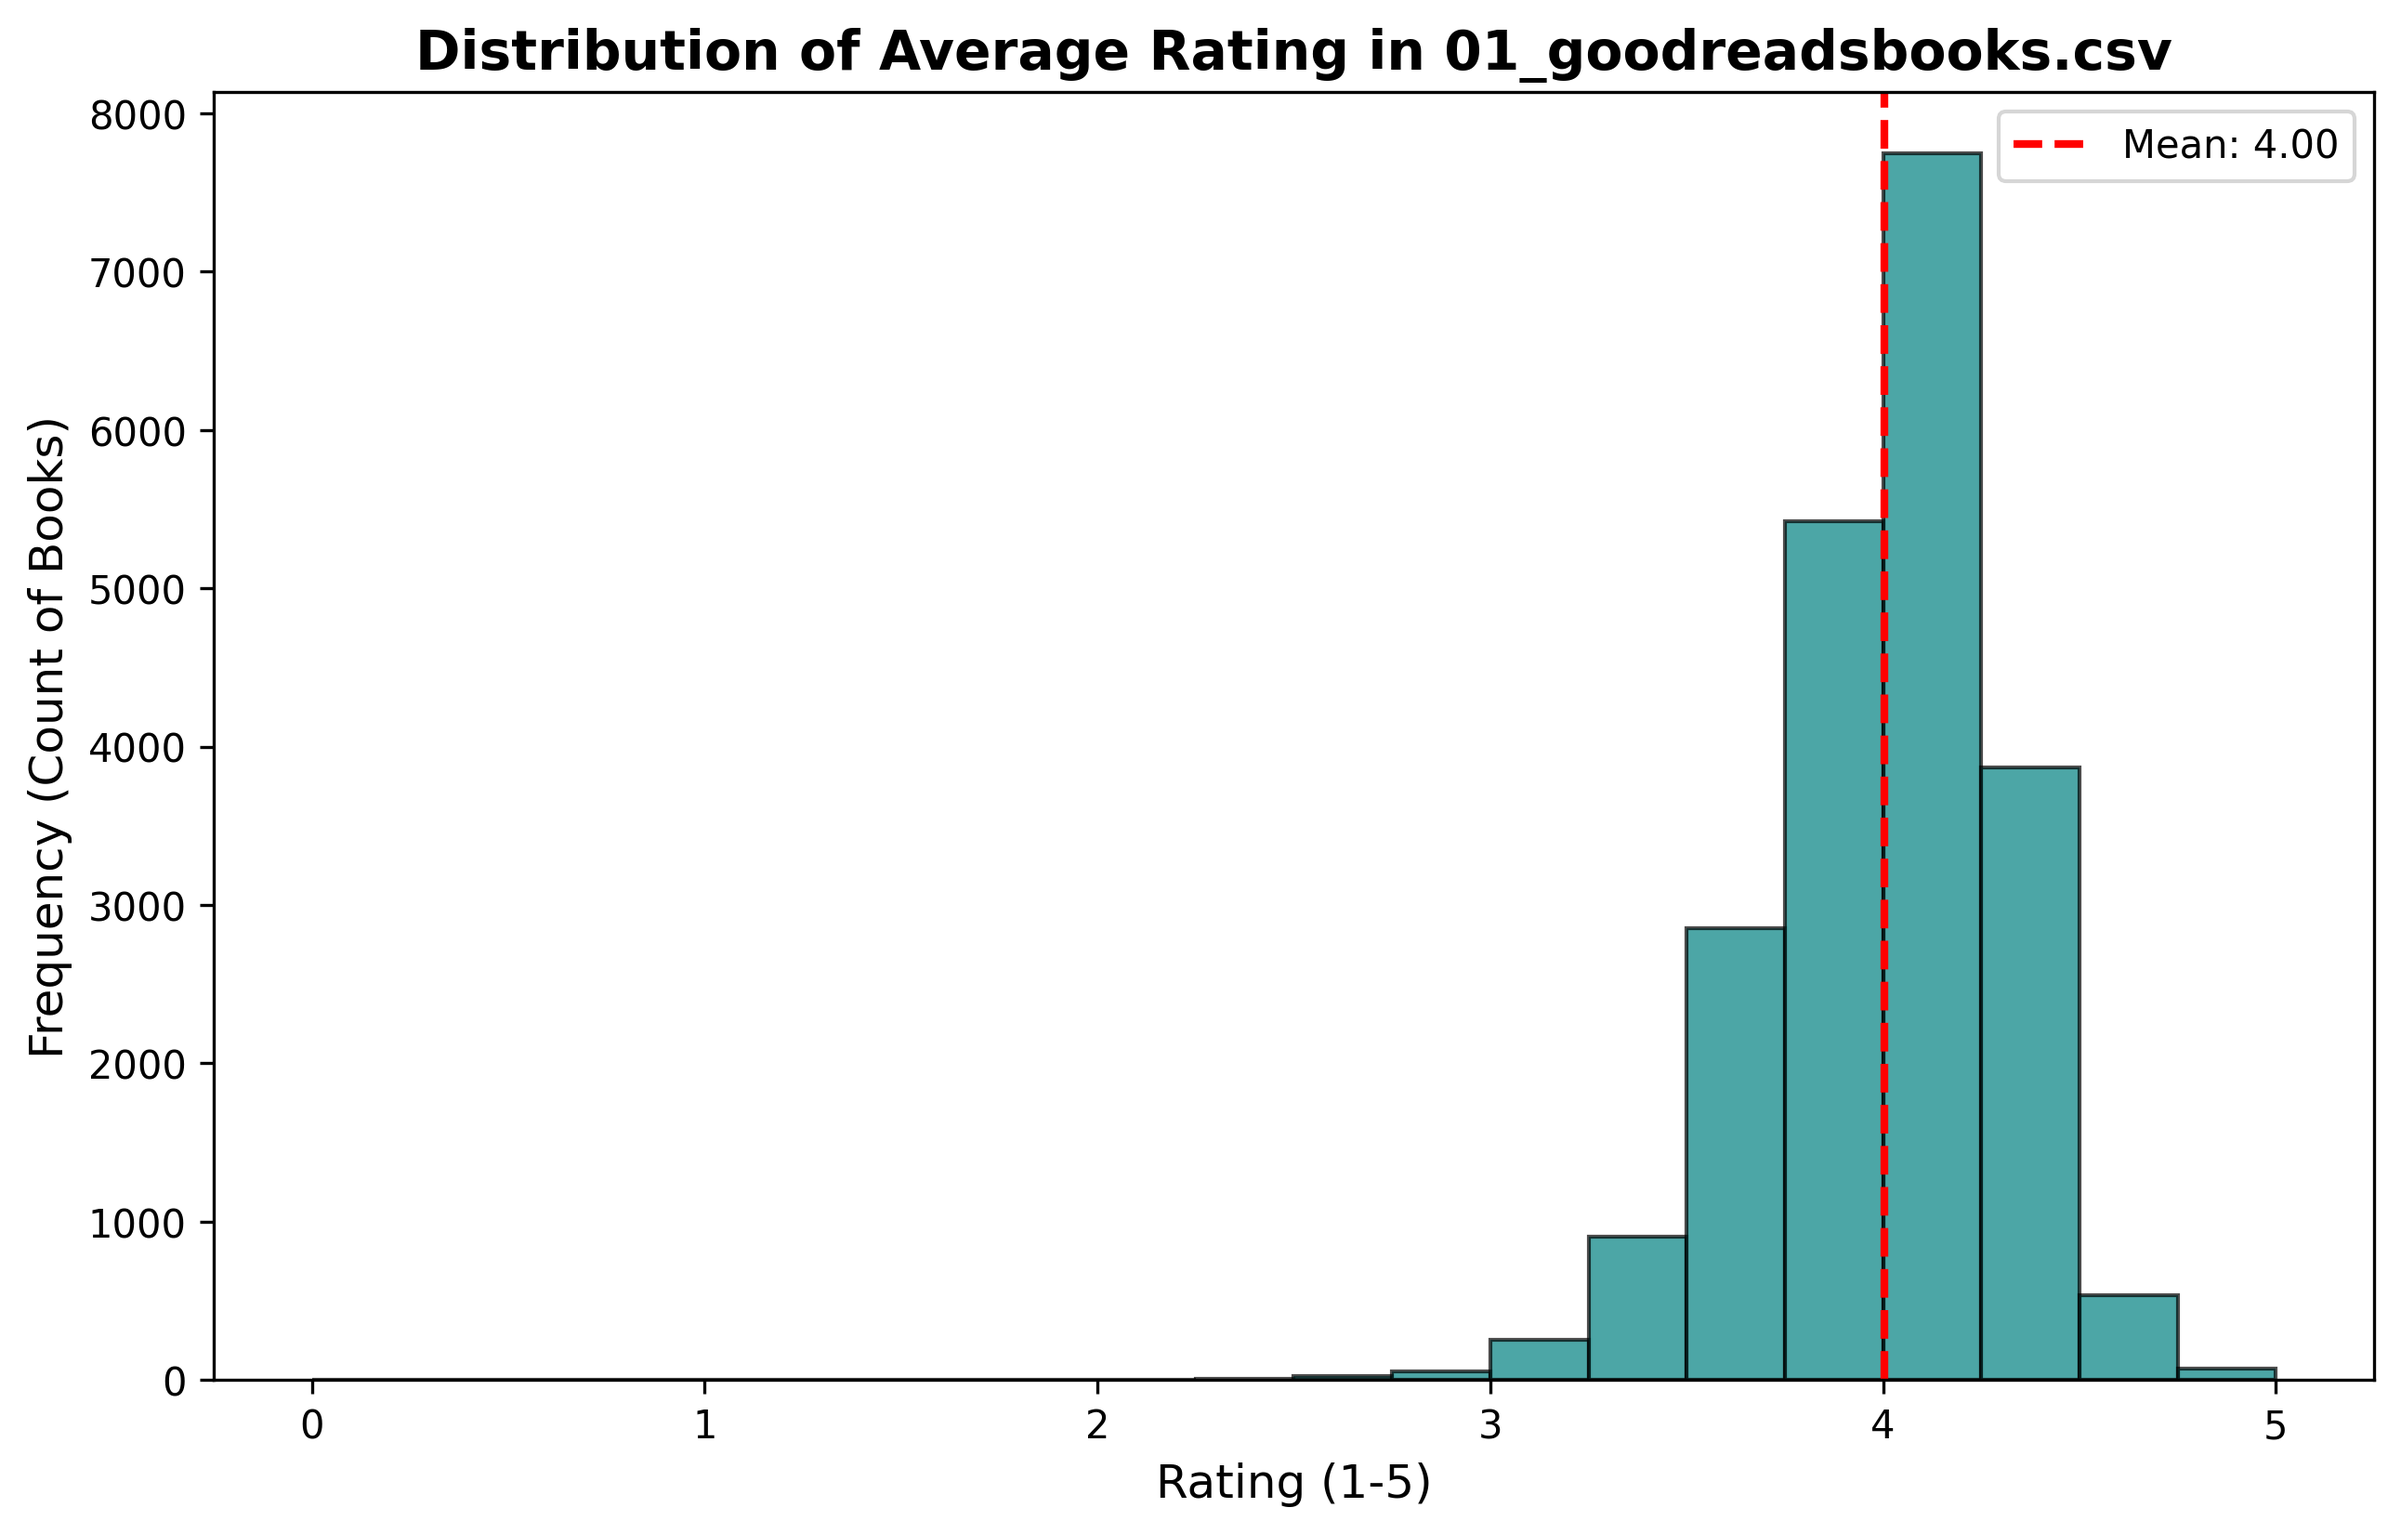
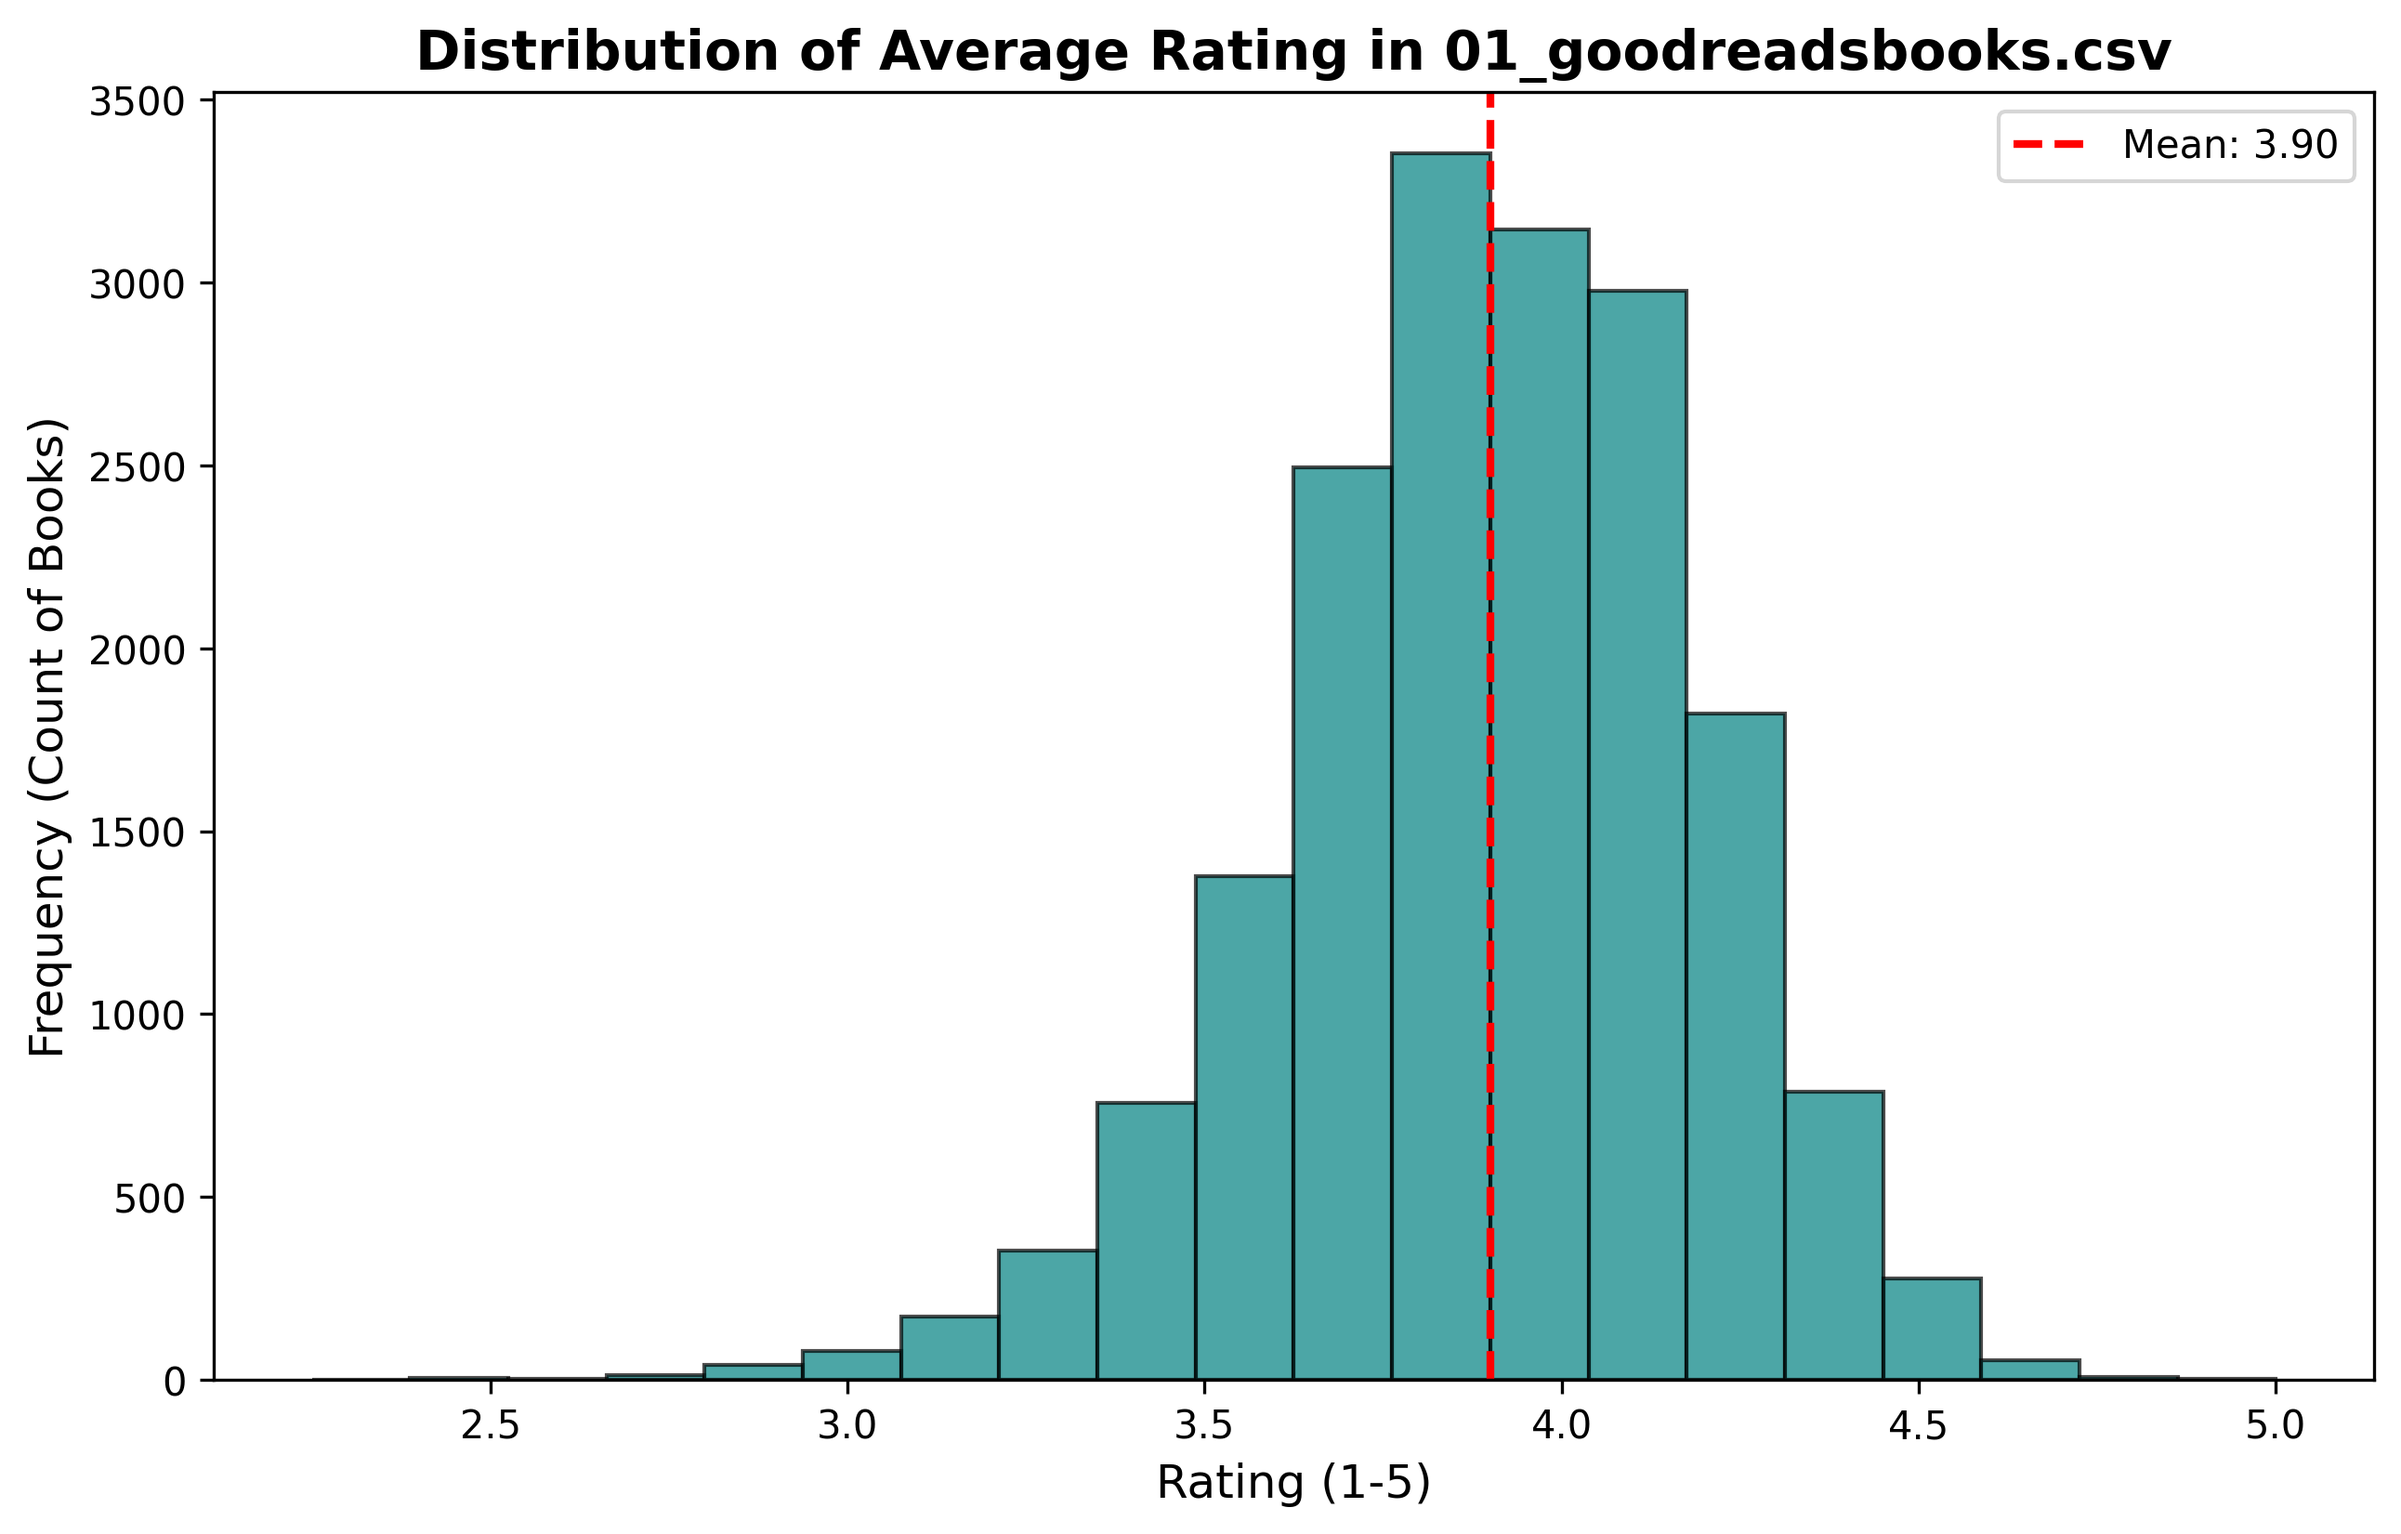
Updated documents folder and report

diff --git a/docs/workingdoc.tex b/docs/workingdoc.tex
@@ -118,34 +118,56 @@ M4 & Weeks 14 & Text Mining (LDA), Final Report \\ \bottomrule
 
 This section details the work done for Milestone 2 of this data mining project.
 
+\subsection{Preprocessing and Data Transformation}
+
+In order to transition from the introductory and theorteical discovery questions from the previous sections our team implemented multiple scripts to select and gather the raw data from the dataset.
+ To address the first discovery question regarding the hidden associations we wrote some python scripts to filter the massive dataset. These scripts took a while to run our computer. First we performed a keyword search across the "popular\_shelves" attirbute of the \texttt{goodreads\_books.json.gz} file. We spefically search for genres: 'romantasy', 'romantic-fantasy', 'fantasy-romance', 'romance', 'fantasy', and 'romantic'. The filtered results are stored in \texttt{01\_filteredbooks.json}. The resulting json consists of records: book\_id, title, average\_rating, shelves\_list.
+
+
+To answer discovery question 2, we need to examine the different user interactions, so we implemented a second filtering script utilizing the book\_id from our previous script to extract reviews from the \texttt{goodreads\_reviews\_dedup.json.gz} dataset, storing the output in \texttt{03\_extractedreviews.csv}.
+
+The datasets required significant cleaning before our team could conduct meaningful mining. First, we removed generic administrative tags like `to-read' and `ebooks' from the books dataset to reduce noise. Second, to focus our analysis and ensure data comprehension, we removed any non-English records from the reviews dataset using the Python package \texttt{langid}.
 \subsection{Exploratory Data Analysis}
+Before applying our mining algorithms, our team examined the distributions of ratings, community-defined tags (for example users can create virtual bookshelves and give them a name), and review engagement to establish a baseline understanding of the ``Romantasy'' and other romance genres subset.
 
-In order to transition from the introductionary and theorteical discovery questions from the previous sections our team implemented multiple pipelines to select and transmit the raw data from the dataset.
- To address the first discovery question regarding the hidden assoications we wrote some python scripts. This script performs a keyword search across the "popular\_shelves" attirbute of the \texttt{goodreads\_books.json.gz} file. We spefically search for genres: 'romantasy', 'romantic-fantasy', 'fantasy-romance', 'romance', 'fantasy', and 'romantic'. The filtered results are stored in \texttt{01\_filteredbooks.json}. The resulting json consists of records: book\_id, title, average\_rating, shelves\_list.
-
-In order to answer discovery question 2 we need to example the different interactions users make so we exmaine interactions on books across the site along with the types of reviews. We implemented a second filtering script that utilizes the book\_id from our previous script to perform an extraction from the \texttt{goodreads\_reviews\_dedup.json.gz} dataset. The extracted data is stored in \texttt{03\_extractedreviews.csv}.
-
-\begin{figure}[htbp]
+ \begin{figure}[htbp]
     \centering
     \includegraphics[width=0.8\linewidth]{rating_histogram.png}
     \caption{Distribution of boos rating in 01\_goodreadsbooks.csv}
     \label{fig:placeholder}
 \end{figure}
 
-    Examining the histogram of the average ratings of romance books in the 01_goodreadsbooks.csv we find that most readers rated the books around 4. This suggests that romance readers find books great reads. They often are not critical of books.
+Examining the histogram of the average ratings of romance books in the 01\_goodreadsbooks.csv we find that most readers rated the books around 4. This suggests that romance readers find books great reads. They often are not critical of books.
+
+\subsubsection{Shelf Tag Distribution}
+
+Analysis of the shelves\_list indicates that the tag `to-read' is the most frequent attribute. During the preprocessing phase, we implemented a filter to only show tags that correspond to actually refer to book descriptions and not generic tags such as ``to-read''. However after during the postprocessing phase the most prevalent tags included fiction, romance, and fantasy. This aligns with the ``Romatansy'' genre which confirms Romantasy is the most pollinated genre.
+\begin{figure}[hbtp]
+    \centering
+    \includegraphics[width=\linewidth]{10commonbargraph.png}
+    \caption{Distribution of the top 10 most frequent shelf tags post-cleaning}
+    \label{fig:tag_frequencies}
+\end{figure}
+
+In order to answer discovery question 1 we need to example the different interactions users make so we examine interactions on books across the site along with the types of reviews. We implemented a second filtering script that utilizes the book\_id from our previous script to perform an extraction from the \texttt{goodreads\_reviews\_dedup.json.gz} dataset. The extracted data is stored in \texttt{03\_extractedreviews.csv}.
+
+\subsection{Answering Discovery Question 1: Genre Associations}
+
+Our team originally asked if readers of ``Romantasy'' (Romance Fantasy) also showed high interest in other specific romance sub-genres. After running the FP-Growth algorithm on our transaction data, the top association rules generated lift values of approximately 6.8 to 7.0 for various fantasy sub-genres, rather than romance genres.
+
+While we did not see strong associations between romance genres at our current minimum support threshold of 0.01, our findings partially support the broader hypothesis of sub-genre cross-pollination. Specifically, we demonstrated that readers of fantasy are highly likely to read and tag other closely related speculative fiction genres. This is evidenced by the strong associations found between ``paranormal'' and ``supernatural'' fiction, as well as the heavy overlap between fantasy and science fiction readers.
+
 
 \subsection{Univariate Analysis}
 
 Beyond the average ratings, our team examined the distribution of community-defined tags and the volume of review engagement.
 
-\subsubsection{Shelf Tag Distribution}
-
-Analysis of the shelves_list indicates that the tag 'to-read' is the most frequent attribute. During the preprocessing phase, we implemented a filter to only show tags that correspond to actually refer to book descriptions and not generic tags such as "to-read". However after during the postprocessing phase the most prevalent tags included fiction, romance, and fantasy. This aligns with the "Romatansy" genre which confirms Romantasy is the most pollinated genre.
 
 \subsubsection{Engagement Volume}
 
+\section{Updated Plan for Milestone 3}
 
-
+Moving into Milestone 3, our plan remains aligned with the original Milestone 1 proposal. Since we have successfully established our preprocessing pipeline and validated our association rules, our next focus will be applying K-Means clustering to answer our second discovery question. We will collect user interactions from rating variance and review length—to identify distinct reader categories (e.g., casual consumers vs. critical reviewers). Additionally, we will begin exploring Latent Dirichlet Allocation (LDA) for text mining the review bodies.
 \section*{Acknowledgment}
 The author would like to thank Julian McAuley for providing the Goodreads dataset and Kennesaw State University for the computational resources.
 
